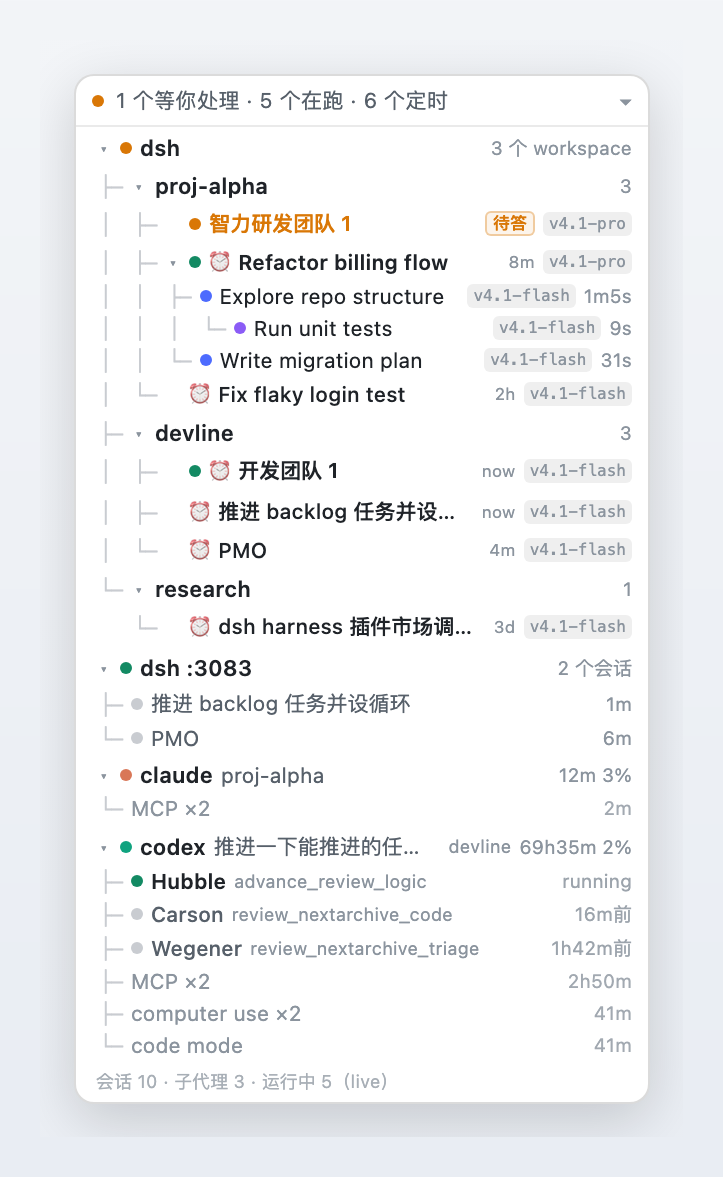
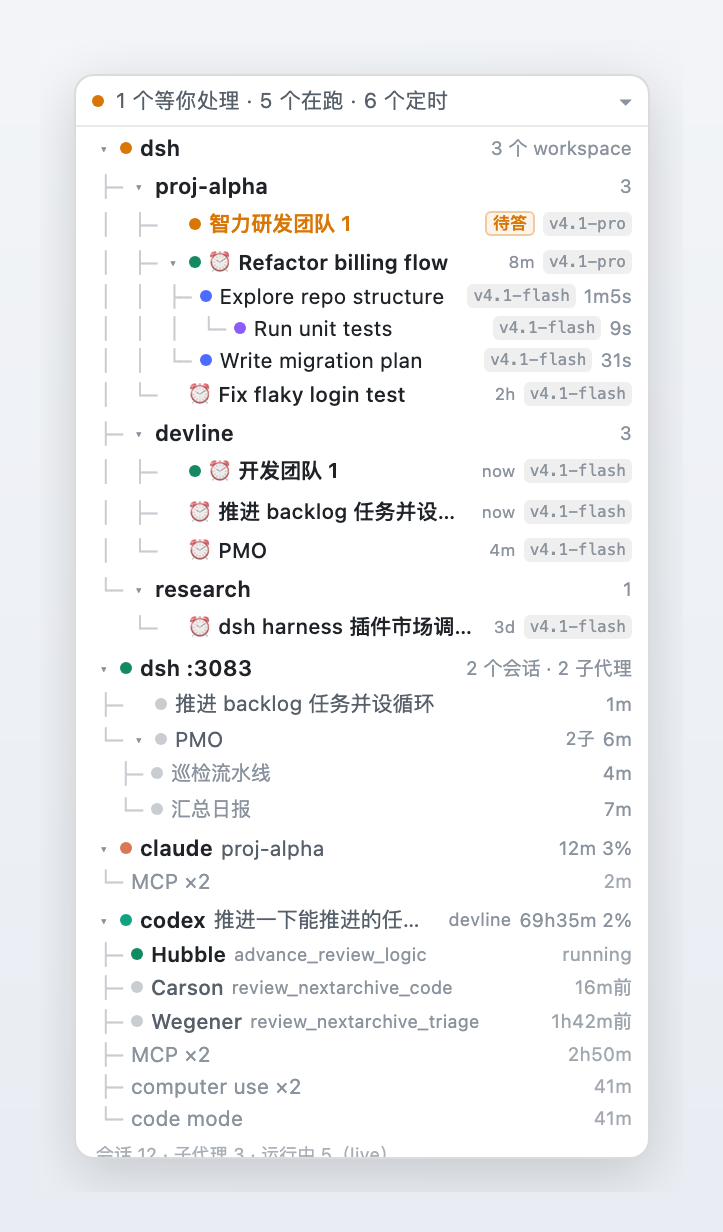
feat: 实例节点带会话/subagent 计数，截图更新

diff --git a/client.js b/client.js
@@ -228,21 +228,34 @@ window.__ModuleLoader__.load({
     function buildInstances(instances, sessions, statuses, now) {
       const list = Array.isArray(instances) ? instances : [];
       const byId = sessions && sessions.byId ? sessions.byId : {};
+      const childIndex = childSessionsIndex(sessions);
       const out = [];
       for (const instance of list) {
         if (instance === null || typeof instance !== 'object') continue;
         const ports = Array.isArray(instance.ports) ? instance.ports.filter((port) => Number.isFinite(port)) : [];
         const ids = Array.isArray(instance.sessionIds) ? instance.sessionIds : [];
         const rows = [];
+        let subagents = 0;
         for (const id of ids) {
           const row = byId[id];
           if (row === undefined) continue;
+          const children = childIndex.get(id) || [];
+          subagents += children.length;
           rows.push({
             id,
             title: shortTitle(row),
             waiting: waitingKind(statuses, id),
             updatedAt: Number(row.updatedAt) || 0,
             updatedLabel: formatElapsed(Math.max(0, Math.round((now - (Number(row.updatedAt) || now)) / 1000))),
+            subagents: children.length,
+            children: children.slice(0, 6).map((childId) => ({
+              id: childId,
+              title: shortTitle(byId[childId]),
+              updatedAt: Number(byId[childId].updatedAt) || 0,
+              updatedLabel: formatElapsed(
+                Math.max(0, Math.round((now - (Number(byId[childId].updatedAt) || now)) / 1000)),
+              ),
+            })),
           });
         }
         rows.sort((left, right) => right.updatedAt - left.updatedAt);
@@ -255,12 +268,29 @@ window.__ModuleLoader__.load({
           url: ports.length > 0 ? `http://127.0.0.1:${ports[0]}/` : '',
           waiting: rows.some((row) => row.waiting !== undefined),
           count: rows.length,
+          subagents,
           unknown: ids.length - rows.length,
           rows: rows.slice(0, 6),
         });
         if (out.length >= 4) break;
       }
       return out;
+    }
+
+    /** `sessions.byId` → `parentId -> [子会话 id]`，拿它数每个会话下挂了多少 subagent。 */
+    function childSessionsIndex(sessions) {
+      const index = new Map();
+      const byId = sessions && sessions.byId ? sessions.byId : {};
+      for (const id of Object.keys(byId)) {
+        const row = byId[id];
+        const parentId = row && row.parentId;
+        if (typeof parentId !== 'string' || parentId === '') continue;
+        const bucket = index.get(parentId);
+        if (bucket === undefined) index.set(parentId, [id]);
+        else bucket.push(id);
+      }
+      for (const bucket of index.values()) bucket.sort();
+      return index;
     }
 
     /**
@@ -900,7 +930,7 @@ window.__ModuleLoader__.load({
               'span',
               { style: { flex: 'none', fontSize: 9.5, color: 'var(--dsw-alias-label-tertiary)' } },
               instance.count > 0
-                ? `${instance.count} 个会话`
+                ? `${instance.count} 个会话${instance.subagents > 0 ? ` · ${instance.subagents} 子代理` : ''}`
                 : instance.unknown > 0
                   ? `${instance.unknown} 个会话（不在本实例）`
                   : '0 个会话',
@@ -910,14 +940,18 @@ window.__ModuleLoader__.load({
         if (!instOpen) return;
         instance.rows.forEach((row, rowIndex) => {
           const isLast = rowIndex === instance.rows.length - 1;
+          const rowKey = `${instKey}:${row.id}`;
+          const rowOpen = !collapsedNodes[rowKey];
           rows.push(
             h(
               'div',
               {
-                key: `${instKey}:${row.id}`,
+                key: rowKey,
                 className: 'dsh-agent-tree-mini-row',
                 onClick: openInstance,
-                title: `${row.title}\n${instance.label}\n${row.id}`,
+                title: `${row.title}\n${instance.label}\n${row.id}${
+                  row.subagents > 0 ? `\n${row.subagents} 个 subagent` : ''
+                }`,
                 style: {
                   display: 'flex',
                   alignItems: 'center',
@@ -928,6 +962,26 @@ window.__ModuleLoader__.load({
                 },
               },
               glyph(isLast ? '└─' : '├─'),
+              row.subagents > 0
+                ? h(
+                    'span',
+                    {
+                      onClick: (event) => {
+                        event.stopPropagation();
+                        toggle(rowKey);
+                      },
+                      style: {
+                        width: 8,
+                        flex: 'none',
+                        fontSize: 8.5,
+                        color: 'var(--dsw-alias-label-tertiary)',
+                        textAlign: 'center',
+                        cursor: 'pointer',
+                      },
+                    },
+                    rowOpen ? '▾' : '▸',
+                  )
+                : h('span', { style: { width: 8, flex: 'none' } }),
               h(Dot, {
                 color: row.waiting ? WAIT[row.waiting].color : DOT.level2,
                 active: row.waiting !== undefined,
@@ -937,6 +991,13 @@ window.__ModuleLoader__.load({
                 color: row.waiting ? WAIT[row.waiting].color : 'var(--dsw-alias-label-secondary)',
               }),
               row.waiting ? h(WaitBadge, { kind: row.waiting }) : null,
+              row.subagents > 0
+                ? h(
+                    'span',
+                    { style: { flex: 'none', fontSize: 9, color: 'var(--dsw-alias-label-tertiary)' } },
+                    `${row.subagents}子`,
+                  )
+                : null,
               h(
                 'span',
                 { style: { flex: 'none', fontSize: 9.5, color: 'var(--dsw-alias-label-tertiary)' } },
@@ -944,6 +1005,37 @@ window.__ModuleLoader__.load({
               ),
             ),
           );
+          if (!rowOpen || row.subagents === 0) return;
+          row.children.forEach((child, childIndex2) => {
+            const childLast = childIndex2 === row.children.length - 1;
+            rows.push(
+              h(
+                'div',
+                {
+                  key: `${rowKey}:${child.id}`,
+                  className: 'dsh-agent-tree-mini-row',
+                  onClick: openInstance,
+                  title: `${child.title}\n${instance.label}\n${child.id}`,
+                  style: {
+                    display: 'flex',
+                    alignItems: 'center',
+                    gap: 4,
+                    padding: '2px 8px 2px 22px',
+                    cursor: 'pointer',
+                    minWidth: 0,
+                  },
+                },
+                glyph(childLast ? '└─' : '├─'),
+                h(Dot, { color: DOT.deep, active: false }),
+                clampSpan(child.title, { fontSize: 10, color: 'var(--dsw-alias-label-tertiary)' }),
+                h(
+                  'span',
+                  { style: { flex: 'none', fontSize: 9.5, color: 'var(--dsw-alias-label-tertiary)' } },
+                  child.updatedLabel,
+                ),
+              ),
+            );
+          });
         });
       });
 

diff --git a/README.md b/README.md
@@ -20,7 +20,8 @@
 - **每行右侧模型标签**：读会话投影 `modelSelection`（`next` → `lastUsed`），压成 `v4.1-flash` 这类短标签；
   subagent 没有自己的记录时继承上级（悬停会标注）。
 - **本机多个 dsh 实例**：同时开好几个 `dsh web --port 30xx` 时，别的实例里正在跑的会话也会出现在卡上——
-  每个实例一个顶层节点（`dsh :3083`），下面挂它当前打开着的会话，点一下在新标签打开那个实例。
+  每个实例一个顶层节点（`dsh :3083`），右上角是「会话数 · subagent 数」，下面挂它当前打开着的会话；
+  每个会话行右边是「挂了几个 subagent」（`▸` 可展开看是哪几个），点一下在新标签打开那个实例。
   宿主半部用 `ps` + `lsof` 发现端口和会话，走本机文件，不需要跨实例鉴权。
 - **定时任务倒计时**：读 Automation tasks 的 `schedule.catalog()`（服务名 `remote.schedule`，命名空间没挂上时用
   `ctx.get` 兜底），间歇式工作的会话**即使现在没在跑也会列出**，右侧显示 `⏱8m / ⏱2h / ⏱3d`。
@@ -79,7 +80,7 @@ dsh plugin --profile web add "$PWD"
 | `● 1 个等你处理 · 5 个在跑 · 2 个定时` | 有 1 个会话在等你拍板（提问/审批/计划审阅），5 个在跑，2 个由定时任务驱动 |
 | `├─ ● 智力研发团队 1  待答  v4.1-pro` | 这一行**要你决定**：琥珀色圆点 + `待答` 徽标，排在在跑的会话之前 |
 | `▾ ● dsh  2 个 workspace` | 本机上的一个 agent：当前这个 DSH 实例，右上是它的 workspace 数 |
-| `▾ ● dsh :3083  2 个会话` | 本机另一个 DSH 实例（你同时开了多个端口）：下面是它当前打开着的会话，点行在新标签打开 |
+| `▾ ● dsh :3083  2 个会话 · 2 子代理` | 本机另一个 DSH 实例（你同时开了多个端口）：下面是它当前打开着的会话；行右边的 `2子` 是这会话挂的 subagent 数，`▸` 展开；点行在新标签打开 |
 | `├─ ▾ proj-alpha  2` | workspace 分组，右上是它下面列出的分支数 |
 | `├─ ▾ ● Refactor billing flow  ⏱8m  v4.1-pro` | 顶层对话在跑（绿点），8 分钟后有下一次定时，用 v4.1-pro |
 | `│  ├─ ● Explore repo structure  v4.1-flash  1m5s` | 它的 subagent（蓝点），已跑 1 分 05 秒 |

diff --git a/README.en.md b/README.en.md
@@ -20,8 +20,8 @@ at which depth, on which model, for how long, and when its next scheduled run fi
 - **Color = depth** — green dot for top-level conversations, blue for level-2 subagents, violet for deeper ones, grey for finished rows.
 - **Per-row model chip** (right aligned) — from the session projection `modelSelection` (`next` → `lastUsed`), shortened to `v4.1-flash`; subagents without their own record inherit the parent's (tooltip says so).
 - **Multiple local dsh instances** — when you run several `dsh web --port 30xx` at once, sessions live in the other instances
-  show up too: one top-level node per instance (`dsh :3083`) with the sessions it currently has open; click to open that instance
-  in a new tab. The host half discovers ports and sessions via `ps` + `lsof` on local files, so no cross-instance auth is needed.
+  show up too: one top-level node per instance (`dsh :3083`) labelled with its session / subagent counts, listing the sessions it
+  currently has open — each row shows how many subagents hang off it (`▸` expands them); click to open that instance in a new tab. The host half discovers ports and sessions via `ps` + `lsof` on local files, so no cross-instance auth is needed.
 - **Alarm clock on loop sessions** — any session driven by a schedule keeps a `⏰` in front of its title, with the countdown to the next run on the right (`8m` / `2h` / `3d`); a round that just fired shows `now` and still keeps the clock, so a running loop never looks like a plain conversation.
 - **Scheduled-task countdown** — reads `schedule.catalog()` from Automation tasks (the `remote.schedule` service, with a `ctx.get` fallback while its namespace is not mounted yet); sessions driven by a schedule are listed even while idle, with `⏱8m / ⏱2h / ⏱3d` and a `N running · M scheduled` headline.
 - **Sessions that need your call come first** — when an agent asks a question, waits for an approval, or waits for a plan review (`pendingInteraction` = `question` / `approval` / `plan-review`), that row turns **amber**, carries a `待答 / 待批 / 待审` badge and **sorts above running rows**. Previously such a session disappeared because it was no longer running.

diff --git a/CHANGELOG.md b/CHANGELOG.md
@@ -6,8 +6,8 @@
   刚触发过、倒计时到期的显示 `now`，但 `⏰` 不会消失——之前只有「还没到点」的行才有标记，正在跑或刚跑完的循环任务看起来和普通会话一样。
 - 倒计时不再重复画 `⏱` 图标：图标统一挪到标题前，右侧只留数字。
 - **本机多个 dsh 实例**：同时开多个 `dsh web --port 30xx` 时，别的实例里正在跑的会话也会出现在卡上。
-  每个实例是一个顶层节点（`dsh :3083`），下面是它当前打开着的会话（标题取自共用的会话目录），
-  点一下在新标签打开那个实例。宿主半部用 `ps` + `lsof` 读监听端口与打开的会话文件，不需要跨实例接口/鉴权。
+  每个实例是一个顶层节点（`dsh :3083`），右上角是「会话数 · subagent 数」，下面是它当前打开着的会话
+  （标题取自共用的会话目录，按 `parentId` 数出每个会话挂了多少 subagent，`▸` 可展开），点一下在新标签打开那个实例。宿主半部用 `ps` + `lsof` 读监听端口与打开的会话文件，不需要跨实例接口/鉴权。
 
 ## 0.1.0 — 2026-10-29
 

diff --git a/docs/manual.en.md b/docs/manual.en.md
@@ -110,12 +110,15 @@ but the process table and the session store are shared, so the host half can rea
 - `lsof -p <pid> -Fn` shows `~/.dsh/sessions/<project>/session-<id>/` — the sessions they currently have open.
 
 ```
-▾ ● dsh :3083                     2 sessions
-├─ ● 推进 backlog 任务并设循环        1m
-└─ ● PMO                          6m
+▾ ● dsh :3083                2 sessions · 2 subagents
+├─ ● 推进 backlog 任务并设循环     1m
+└─ ▾ ● PMO                 2子   6m
+   ├─ ● 巡检流水线               4m
+   └─ ● 汇总日报                 7m
 ```
 
 - Titles come from the shared session store, so they match what that instance shows; the right side is "last touched".
+- `N子` is how many subagents hang off that session (counted via `parentId` in the session table); `▸` expands up to 6 child rows.
 - Click the instance row / a session row to open that port in a new tab (no deep link to the exact session).
 - Session ids missing from this instance's store (e.g. another `DSH_HOME`) are only counted in the tooltip.
 - At most 4 instances, 6 rows each.

diff --git a/docs/manual.md b/docs/manual.md
@@ -120,12 +120,15 @@ DSH 的 Automation tasks（`schedule.catalog()`）驱动的是「间歇式工作
 卡片上每个实例是一个顶层节点：
 
 ```
-▾ ● dsh :3083                     2 个会话
-├─ ● 推进 backlog 任务并设循环        1m
-└─ ● PMO                          6m
+▾ ● dsh :3083                2 个会话 · 2 子代理
+├─ ● 推进 backlog 任务并设循环     1m
+└─ ▾ ● PMO                 2子   6m
+   ├─ ● 巡检流水线               4m
+   └─ ● 汇总日报                 7m
 ```
 
 - 会话标题来自共用的会话目录，所以和那个实例里看到的一致；右侧是"多久没动"。
+- `N子` 是这个会话挂了多少个 subagent（按会话表里的 `parentId` 数），点 `▸` 展开成缩进的子会话行（最多 6 个）。
 - 点实例行 / 会话行 → 新标签打开那个端口的页面（做不到直接深链到具体会话）。
 - 会话 id 不在本实例会话表里（比如另一个 `DSH_HOME`）时不显示行，只在 tooltip 里提示有几个。
 - 最多 4 个实例、每实例 6 行，避免卡片变长。
